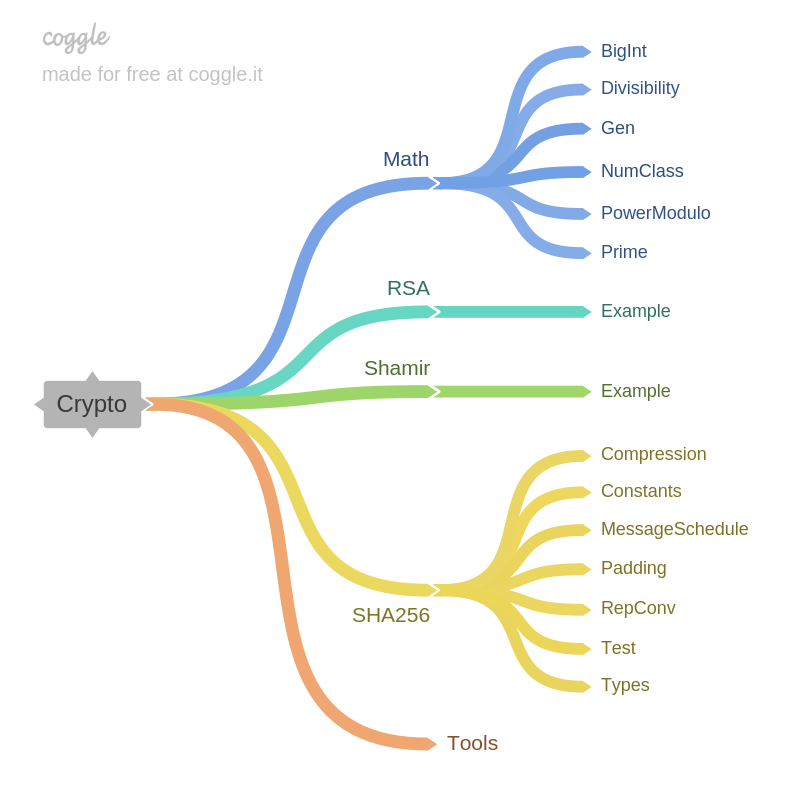
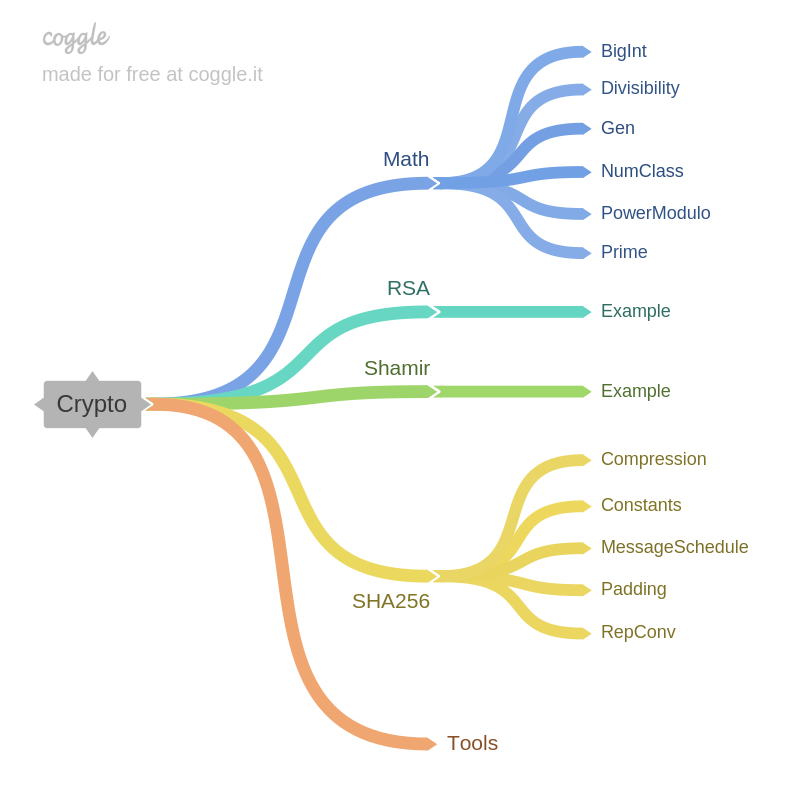
Update the modules overview image and description.

Changed region(s): [[0.3038, 0.5286, 0.9418, 0.8706]]

diff --git a/README.md b/README.md
@@ -36,15 +36,13 @@ Implementation of Shamir's Secret Sharing. Check `Shamir.Example` for example us
 
 ### SHA256
 
-Implementation of SHA256. The terminology follows closely to that of the [Wikipedia article](https://en.wikipedia.org/wiki/SHA-2).
+Implementation of SHA256. The terminology follows closely to that of the [Wikipedia article](https://en.wikipedia.org/wiki/SHA-2). You need to install the package `cryptohash` with e.g. `cabal install cryptohash`. 
 
-- `Compression` Inner compression loop.
+- `Compression` The inner compression loop.
 - `MessageSchedule` Creation of the message schedule array.
-- `Constants` Round constants for the compression and initial hash values for the Merkle-Damgård iteration.
-- `Padding`  Pre-processing of the byte string to be hashed.
+- `Constants` Round constants for the compression loop and the initial hash values.
+- `Padding`  Padding (pre-processing) of the byte string to be hashed.
 - `RepConv` Converting between different representations of words and lists of words.
-- `Types` Type-synonyms for common lists of words.
-- `Test` Comparsion between this implementation and a library function. This module requires the package `Crypto.Hash.SHA256` which can be installed with `cabal install cryptohash`.
 
 ### Tools
 
